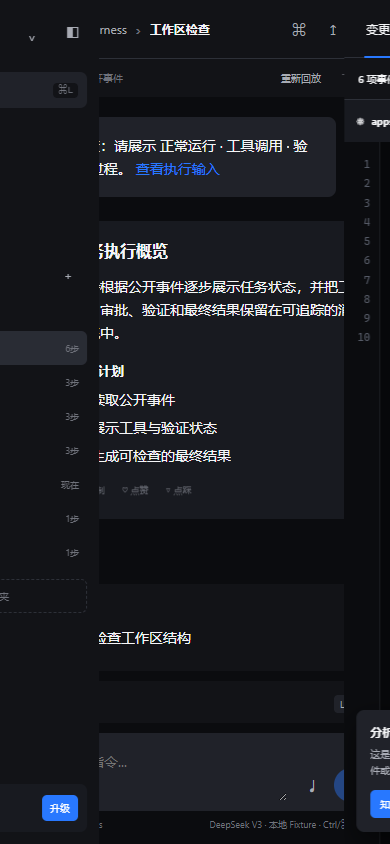
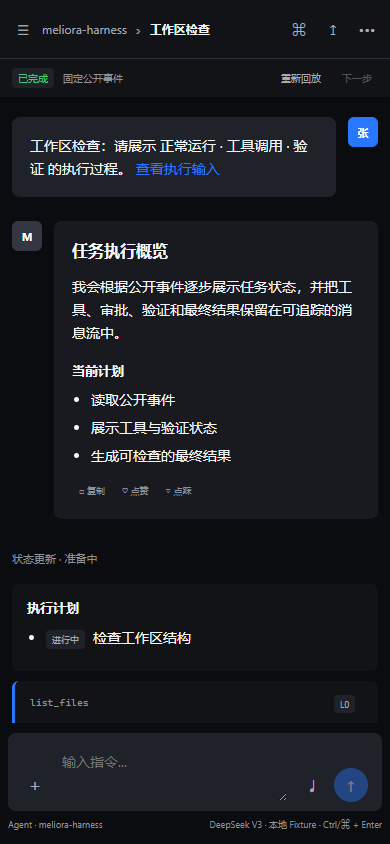
fix(web): close fixture shell review gaps

diff --git a/apps/web/src/dark-shell.css b/apps/web/src/dark-shell.css
@@ -1,6 +1,6 @@
 *{box-sizing:border-box}
-:root{font-family:Inter,"Segoe UI","Microsoft YaHei",sans-serif;font-size:14px;color-scheme:dark;--page:#0b0c0f;--panel:#121317;--panel-2:#181a20;--field:#202229;--hover:#292c34;--text:#f5f6f8;--secondary:#a8abb4;--muted:#6f727b;--line:#2d3038;--blue:#2878ff;--green:#3dcc78;--red:#ff5c67}
-:root[data-theme="light"]{color-scheme:light;--page:#f3f4f6;--panel:#fff;--panel-2:#f1f2f5;--field:#e7e8ec;--hover:#dddfe5;--text:#17181b;--secondary:#5d6068;--muted:#90939b;--line:#d7d9df;--blue:#1767ed;--green:#16884d;--red:#d93645}
+:root{font-family:Inter,"Segoe UI","Microsoft YaHei",sans-serif;font-size:14px;color-scheme:dark;--page:#0b0c0f;--panel:#121317;--panel-2:#181a20;--field:#202229;--hover:#292c34;--text:#f5f6f8;--secondary:#a8abb4;--muted:#8e929d;--line:#2d3038;--blue:#2878ff;--green:#3dcc78;--red:#ff5c67}
+:root[data-theme="light"]{color-scheme:light;--page:#f3f4f6;--panel:#fff;--panel-2:#f1f2f5;--field:#e7e8ec;--hover:#dddfe5;--text:#17181b;--secondary:#5d6068;--muted:#676b75;--line:#d7d9df;--blue:#1767ed;--green:#16884d;--red:#d93645}
 html,body,#root{height:100%;margin:0;overflow:hidden;background:var(--page);color:var(--text)}
 button,input,textarea,select{font:inherit;color:inherit}button{border:0;background:transparent;cursor:pointer}button:disabled{opacity:.42;cursor:not-allowed}button:not(:disabled):hover{background:var(--hover)}button:focus-visible,input:focus-visible,textarea:focus-visible,select:focus-visible,[tabindex]:focus-visible{outline:2px solid var(--blue);outline-offset:2px}a{color:var(--blue);text-decoration:none}code,pre,kbd{font-family:"Cascadia Code",Consolas,monospace}.sr-only{position:absolute;width:1px;height:1px;padding:0;margin:-1px;overflow:hidden;clip:rect(0,0,0,0);white-space:nowrap;border:0}
 
@@ -21,17 +21,18 @@ button,input,textarea,select{font:inherit;color:inherit}button{border:0;backgrou
 .mobile-panel-button,.mobile-close,.mobile-backdrop{display:none}
 .run-bar{height:39px;display:flex;align-items:center;gap:9px;padding:0 20px;color:var(--muted);font-size:10px;background:var(--panel);border-top:1px solid var(--line);flex-shrink:0}.run-bar button{margin-left:auto;color:var(--secondary);font-size:10px;padding:6px;border-radius:5px}.run-bar button+button{margin-left:0}.run-status{padding:3px 6px;border-radius:4px;background:var(--field);color:var(--secondary)}.run-status.completed{color:var(--green)}
 .message-stream{flex:1;min-height:0;overflow-y:auto;padding:30px 28px 36px;scrollbar-width:thin;scrollbar-color:var(--line) transparent}.message-column{width:min(760px,100%);margin:0 auto}.message{display:flex;gap:12px;margin-bottom:24px}.message-author{display:grid;place-items:center;width:30px;height:30px;flex-shrink:0;border-radius:6px;background:#343741;color:white;font-size:11px;font-weight:700}.message.user{flex-direction:row-reverse}.message.user .message-author{background:var(--blue)}.message-body{position:relative;max-width:86%;padding:17px 18px;border-radius:8px;background:var(--panel-2);line-height:1.65}.message.user .message-body{background:var(--field)}.message-body h2{margin:0 0 10px;font-size:16px}.message-body h3{margin:16px 0 7px;font-size:13px}.message-body p{margin:0}.message-body ul{margin:0;padding-left:19px}.message-body li{margin:5px 0}.message-actions{position:absolute;left:6px;bottom:-30px;display:flex;gap:3px;opacity:0;transform:translateY(-3px);transition:opacity 140ms ease,transform 140ms ease}.message:hover .message-actions,.message:focus-within .message-actions{opacity:1;transform:none}.message-actions button{padding:5px 7px;border-radius:5px;color:var(--muted);font-size:9px}.message-actions button[aria-pressed="true"]{color:var(--blue);background:var(--field)}
+.timeline-empty{display:grid;justify-items:center;align-content:center;min-height:52vh;padding:40px;text-align:center;color:var(--secondary)}.timeline-empty>span{display:grid;place-items:center;width:42px;height:42px;margin-bottom:14px;border-radius:8px;background:var(--field);color:var(--blue);font-size:20px}.timeline-empty h2{margin:0;color:var(--text);font-size:18px}.timeline-empty p{margin:8px 0 18px;font-size:12px}.timeline-empty button{padding:8px 12px;border-radius:6px;background:var(--field);color:var(--text);font-size:11px}.timeline-loading{position:relative;display:grid;grid-template-columns:30px minmax(0,1fr);gap:12px;align-items:start;margin:6px 42px 18px;color:var(--muted);font-size:10px}.timeline-loading .loading-avatar{width:30px;height:30px;border-radius:6px;background:var(--field);animation:loading-pulse 1.2s ease-in-out infinite}.timeline-loading>div{display:grid;gap:8px;padding-top:3px}.timeline-loading>div span{height:8px;border-radius:4px;background:var(--field);animation:loading-pulse 1.2s ease-in-out infinite}.timeline-loading>div span:nth-child(2){width:78%;animation-delay:100ms}.timeline-loading>div span:nth-child(3){width:52%;animation-delay:200ms}.timeline-loading p{grid-column:2;margin:0}@keyframes loading-pulse{50%{opacity:.45}}
 .reconnect-banner{display:flex;gap:9px;align-items:center;margin:0 42px 16px;padding:10px 12px;border-radius:6px;background:var(--panel);color:var(--secondary);font-size:11px}.reconnect-banner strong{color:var(--text)}.event-flow{margin:8px 42px}.event-flow>article{margin-bottom:10px}.event-line{margin:0;padding:8px 0;color:var(--muted);font-size:11px}.event-line.success{color:var(--green)}.event-card{padding:14px 15px;border-radius:7px;background:var(--panel);line-height:1.6}.event-card>div:first-child{display:flex;justify-content:space-between;gap:8px}.event-card h3{margin:0 0 8px;font-size:13px}.event-card p{margin:6px 0}.event-card ul{margin:7px 0;padding-left:19px}.event-card li{margin:5px 0}.event-card code,.event-card small{color:var(--muted);font-size:10px}.event-card.completed{border-left:3px solid var(--green)}.event-card.failed{border-left:3px solid var(--red)}.event-card.approval{border-left:3px solid #e0a739}.tool-card{border-left:3px solid var(--blue)}.pill{display:inline-block;margin-right:8px;padding:2px 6px;border-radius:4px;background:var(--field);color:var(--secondary);font-size:9px}.inline-actions{display:flex!important;justify-content:flex-start!important;gap:7px!important;margin-top:12px}.inline-actions button{padding:7px 10px;border-radius:5px;background:var(--field);font-size:11px}.primary{background:var(--blue)!important;color:white!important}.expired-approval{color:#e5b455;font-size:11px}
 .composer-area{flex-shrink:0;padding:10px 22px 13px;background:var(--page)}.notice{width:min(760px,100%);margin:0 auto 7px;color:var(--secondary);font-size:10px}.composer-area form{display:grid;grid-template-columns:34px minmax(0,1fr) 34px auto 36px;align-items:end;gap:7px;width:min(760px,100%);margin:0 auto;padding:9px 10px;border-radius:8px;background:var(--field);box-shadow:inset 0 0 0 1px transparent}.composer-area form:focus-within{box-shadow:inset 0 0 0 1px var(--blue);background:var(--hover)}.composer-area textarea{min-height:38px;max-height:120px;resize:vertical;padding:9px 5px;background:transparent;border:0;outline:0;line-height:1.5}.attachment-button,.voice-button,.send-button{width:34px;height:34px;border-radius:6px;font-size:17px;color:var(--secondary)}.voice-button.active{color:var(--blue);background:var(--panel)}.model-picker select{height:34px;max-width:125px;padding:0 7px;border:0;border-radius:6px;background:var(--panel);font-size:10px}.send-button{border-radius:50%;background:var(--blue);color:white}.send-button:not(:disabled):hover{background:#0e62e9}.composer-meta{display:flex;justify-content:space-between;gap:10px;width:min(760px,100%);margin:7px auto 0;color:var(--muted);font-size:9px}
 
 .right-panel{position:relative;display:flex;flex-direction:column;background:var(--panel);overflow:hidden}
 .right-tabs{height:58px;display:flex;align-items:center;gap:3px;padding:0 12px;border-bottom:1px solid var(--line);flex-shrink:0}.right-tabs button{position:relative;height:58px;padding:0 10px;color:var(--secondary);font-size:12px}.right-tabs button[aria-selected="true"]{color:var(--text)}.right-tabs button[aria-selected="true"]:after{content:"";position:absolute;left:8px;right:8px;bottom:0;height:2px;background:var(--blue)}.right-tools{margin-left:auto;color:var(--muted);font-size:12px}
 .change-summary{height:42px;display:flex;align-items:center;gap:9px;padding:0 14px;color:var(--secondary);font-size:10px;border-bottom:1px solid var(--line)}.change-summary strong{color:var(--text);font-weight:500}.added{color:var(--green)}.deleted{color:var(--red)}.file-path{height:42px;display:flex;align-items:center;gap:7px;padding:0 12px;background:var(--panel-2);font-size:10px}.file-path strong{min-width:0;overflow:hidden;text-overflow:ellipsis;white-space:nowrap}.file-badge{margin-left:auto;padding:3px 5px;border-radius:4px;background:var(--field);color:var(--secondary)}
-.code-editor{flex:1;min-height:0;display:grid;grid-template-columns:36px minmax(0,1fr);overflow:auto;background:#07080a;color:#e7e8ec;font:11px/1.75 "Cascadia Code",Consolas,monospace}.code-editor ol{position:sticky;left:0;margin:0;padding:13px 9px 13px 0;list-style:none;text-align:right;color:#555a66;background:#0b0c0f;border-right:1px solid #1b1d22}.code-editor pre{margin:0;padding:13px 12px;min-width:max-content;white-space:pre}.syntax-keyword{color:#c893ff}.syntax-type{color:#61d6a0}.syntax-string{color:#e6c66f}.syntax-plain{color:#eef0f4}.preview-empty{display:grid;place-items:center;align-content:center;gap:9px;flex:1;color:var(--muted);text-align:center}.preview-empty span{font-size:28px}.preview-empty h3,.preview-empty p{margin:0;color:var(--secondary)}.preview-empty small{font-size:10px}
+.code-editor{flex:1;min-height:0;display:grid;grid-template-columns:36px minmax(0,1fr);overflow:auto;background:#07080a;color:#e7e8ec;font:11px/1.75 "Cascadia Code",Consolas,monospace}.code-editor ol{position:sticky;left:0;margin:0;padding:13px 9px 13px 0;list-style:none;text-align:right;color:#858b99;background:#0b0c0f;border-right:1px solid #1b1d22}.code-editor pre{margin:0;padding:13px 12px;min-width:max-content;white-space:pre}.syntax-keyword{color:#c893ff}.syntax-type{color:#61d6a0}.syntax-string{color:#e6c66f}.syntax-plain{color:#eef0f4}.preview-empty,.changes-empty{display:grid;place-items:center;align-content:center;gap:9px;flex:1;padding:24px;color:var(--muted);text-align:center}.preview-empty span,.changes-empty span{font-size:28px}.preview-empty h3,.preview-empty p,.changes-empty h3,.changes-empty p{margin:0;color:var(--secondary)}.preview-empty small,.changes-empty small{font-size:10px;line-height:1.5}
 .privacy-notice{position:absolute;right:12px;bottom:12px;width:calc(100% - 24px);z-index:10;padding:14px;border-radius:8px;background:var(--field);box-shadow:0 12px 28px #0008}.privacy-notice h3{margin:0 24px 7px 0;font-size:12px}.privacy-notice p{margin:0 0 12px;color:var(--secondary);font-size:10px;line-height:1.55}.privacy-notice>div{display:flex;gap:7px}.privacy-notice button{padding:7px 10px;border-radius:5px;background:var(--panel);font-size:10px}.privacy-notice .notice-close{position:absolute;right:6px;top:5px;width:24px;height:24px;padding:0;color:var(--muted)}
 
 dialog{border:0;color:var(--text);background:var(--panel-2)}dialog::backdrop{background:#0009}.project-menu{position:fixed;margin:0;width:240px;padding:6px;border-radius:7px;box-shadow:0 12px 28px #0009}.project-menu::backdrop{background:transparent}.project-menu button{display:block;width:100%;padding:10px;border-radius:5px;text-align:left;font-size:11px}.settings-dialog{position:relative;width:min(430px,92vw);padding:22px;border-radius:8px}.settings-dialog h2{margin:0 0 8px;font-size:18px}.settings-dialog p,.settings-dialog small{color:var(--secondary);line-height:1.6}.dialog-close{position:absolute;right:10px;top:10px;width:28px;height:28px;border-radius:5px}.settings-dialog form{display:grid;gap:8px;margin-top:16px}.settings-dialog label{margin-top:6px;font-size:11px}.settings-dialog input{height:38px;padding:0 10px;border:1px solid var(--line);border-radius:6px;background:var(--field)}.settings-dialog>button.primary,.settings-dialog form>button{padding:9px 11px;border-radius:6px}.avatar-options{display:flex;gap:6px}.avatar-options button{width:38px;height:38px;border-radius:6px;background:var(--field)}.avatar-options button[aria-pressed="true"]{box-shadow:inset 0 0 0 2px var(--blue)}
 
 @media(max-width:1099px){.app-shell{grid-template-columns:230px minmax(420px,1fr) 0}.app-shell.sidebar-collapsed{grid-template-columns:56px minmax(420px,1fr) 0}.right-panel{display:flex;position:fixed;z-index:30;top:0;right:0;bottom:0;width:min(360px,90vw);transform:translateX(105%);transition:transform 180ms ease}.app-shell.mobile-code-open .right-panel{transform:translateX(0)}.mobile-code-open .mobile-backdrop{display:block;position:fixed;inset:0;z-index:25;background:#0009}.mobile-code-trigger,.right-panel .mobile-close{display:block}.right-panel .mobile-close{position:absolute;z-index:4;right:7px;top:7px;width:30px;height:30px;border-radius:6px;background:var(--field)}}
 @media(max-width:768px){.app-shell,.app-shell.sidebar-collapsed{display:block}.left-panel,.right-panel{display:flex;position:fixed;z-index:30;top:0;bottom:0;width:min(300px,86vw);transition:transform 180ms ease}.left-panel{left:0;transform:translateX(-105%);align-items:stretch}.right-panel{right:0;transform:translateX(105%)}.app-shell.mobile-nav-open .left-panel,.app-shell.mobile-code-open .right-panel{transform:translateX(0)}.mobile-nav-open .mobile-backdrop{display:block;position:fixed;inset:0;z-index:25;background:#0009}.mobile-nav-trigger{display:block}.sidebar-collapsed .sidebar-user{padding:10px 12px;justify-content:flex-start}.sidebar-collapsed .user-copy,.sidebar-collapsed .sidebar-user>.icon-button:not(.collapse-button),.sidebar-collapsed .sidebar-scroll,.sidebar-collapsed .sidebar-footer{display:flex}.sidebar-collapsed .sidebar-scroll{display:block}.sidebar-collapsed .user-copy{display:block}.sidebar-collapsed .sidebar-footer{display:block}.sidebar-collapsed .footer-tools,.sidebar-collapsed .team-card{display:flex}.sidebar-collapsed .collapse-button{position:static}.sidebar-collapsed .collapsed-rail{display:none}.center-panel{height:100vh;border:0}.message-stream{padding:20px 12px}.event-flow{margin-inline:0}.message-body{max-width:90%}.composer-area{padding-inline:8px}.composer-area form{grid-template-columns:32px minmax(0,1fr) 32px 38px}.model-picker{display:none}.conversation-header{padding-inline:8px;gap:4px}.conversation-header>div{flex:1}.run-bar{padding-inline:12px}.message-actions{position:static;opacity:1;transform:none;margin-top:10px}}
-@media(prefers-reduced-motion:reduce){.app-shell,.chat-tree,.chevron,.message-actions{transition:none}}
+@media(prefers-reduced-motion:reduce){.app-shell,.chat-tree,.chevron,.message-actions{transition:none}.timeline-loading span{animation:none}}

diff --git a/apps/web/src/main.tsx b/apps/web/src/main.tsx
@@ -44,6 +44,7 @@ function App() {
   const [profileAvatar, setProfileAvatar] = useState(userAvatar);
   const [folderError, setFolderError] = useState("");
   const settingsDialog = useRef<HTMLDialogElement>(null);
+  const composerInput = useRef<HTMLTextAreaElement>(null);
 
   const projectList = library.projects;
   const activeProject = projectList.find((project) => project.chats.some((chat) => chat.id === library.activeId))!;
@@ -54,9 +55,11 @@ function App() {
   const scenario = scenarios.find((item) => item.id === scenarioId)!;
 
   const messages = [
-    { id: "user-message", role: "user" as const, content: message || `${scenario.title}：请展示 ${scenario.description} 的执行过程。` },
-    { id: "assistant-message", role: "assistant" as const, content: "我会根据公开事件逐步展示任务状态，并把工具、审批、验证和最终结果保留在可追踪的消息流中。" },
+    ...(message.trim() || events.length ? [{ id: "user-message", role: "user" as const, content: message || `${scenario.title}：请展示 ${scenario.description} 的执行过程。` }] : []),
+    ...(events.length ? [{ id: "assistant-message", role: "assistant" as const, content: "我会根据公开事件逐步展示任务状态，并把工具、审批、验证和最终结果保留在可追踪的消息流中。" }] : []),
   ];
+  const showEmpty = !message.trim() && events.length === 0 && !playing && scenarioId !== "reconnecting";
+  const showLoading = events.length === 0 && (playing || Boolean(message.trim()));
 
   useEffect(() => {
     document.documentElement.dataset.theme = theme;
@@ -216,11 +219,13 @@ function App() {
 
       <section className="message-stream" aria-label="消息流">
         <div className="message-column">
+          {showEmpty && <section className="timeline-empty" aria-labelledby="empty-title"><span aria-hidden="true">✦</span><h2 id="empty-title">开始一个新任务</h2><p>输入目标后，公开运行事件会在这里逐步呈现。</p><button onClick={() => composerInput.current?.focus()}>在输入框中开始</button></section>}
           {messages.map((item) => <article className={`message ${item.role}`} key={item.id}>
             <span className="message-author">{item.role === "assistant" ? "M" : userAvatar}</span>
             <div className="message-body">{item.role === "assistant" ? <><h2>任务执行概览</h2><p>{item.content}</p><h3>当前计划</h3><ul><li>读取公开事件</li><li>展示工具与验证状态</li><li>生成可检查的最终结果</li></ul><div className="message-actions"><button onClick={() => setNotice("已复制消息摘要（演示）。")}>□ 复制</button><button aria-pressed={reaction === "like"} onClick={() => setReaction("like")}>♡ 点赞</button><button aria-pressed={reaction === "dislike"} onClick={() => setReaction("dislike")}>▽ 点踩</button></div></> : <p>{item.content} <a href="#composer">查看执行输入</a></p>}</div>
           </article>)}
           {scenarioId === "reconnecting" && <aside className="reconnect-banner"><strong>连接恢复</strong><span>从事件序号 {resumePoint(scenarioId)} 之后继续，不创建新任务。</span></aside>}
+          {showLoading && <section className="timeline-loading" aria-live="polite" aria-busy="true"><span className="loading-avatar"/><div><span/><span/><span/></div><p>{playing ? "正在读取公开事件…" : "等待公开事件…"}</p></section>}
           <div className="event-flow">{events.map((event) => <article key={event.eventId} data-event={event.kind}>{renderEvent(event)}</article>)}</div>
         </div>
       </section>
@@ -228,7 +233,7 @@ function App() {
       <footer className="composer-area">{notice && <p className="notice" role="status">{notice}</p>}<form onSubmit={(event) => { event.preventDefault(); send(); }}>
         <button type="button" className="attachment-button" aria-label="添加附件" onClick={() => setNotice("附件功能等待文件服务接入。")}>＋</button>
         <label className="sr-only" htmlFor="composer">输入指令</label>
-        <textarea id="composer" maxLength={20_000} value={draft} onChange={(event) => setDraft(event.target.value)} placeholder="输入指令..." onKeyDown={(event) => { if (event.key === "Enter" && (event.ctrlKey || event.metaKey) && !event.nativeEvent.isComposing) { event.preventDefault(); send(); } }}/>
+        <textarea ref={composerInput} id="composer" maxLength={20_000} value={draft} onChange={(event) => setDraft(event.target.value)} placeholder="输入指令..." onKeyDown={(event) => { if (event.key === "Enter" && (event.ctrlKey || event.metaKey) && !event.nativeEvent.isComposing) { event.preventDefault(); send(); } }}/>
         <button type="button" className={`voice-button ${voiceActive ? "active" : ""}`} aria-label="语音输入" aria-pressed={voiceActive} onClick={() => setVoiceActive((value) => !value)}>♩</button>
         <label className="model-picker"><span className="sr-only">模型</span><select value={modelName} onChange={(event) => setModelName(event.target.value)}><option>DeepSeek V3</option><option>Kimi K2</option><option>MiniMax M2</option></select></label>
         <button className="send-button" aria-label="发送" disabled={!draft.trim() || playing}>↑</button>
@@ -236,7 +241,7 @@ function App() {
     </main>
 
     <button className="mobile-backdrop" aria-label="关闭侧面板" onClick={() => setMobilePanel(null)}/>
-    <aside className="right-panel"><button className="mobile-close" aria-label="关闭代码面板" onClick={() => setMobilePanel(null)}>×</button><RightPanel projectName={activeProject.name} chatTitle={activeChat.title} eventCount={eventCount} noticeVisible={noticeVisible} onCloseNotice={() => setNoticeVisible(false)}/></aside>
+    <aside className="right-panel"><button className="mobile-close" aria-label="关闭代码面板" onClick={() => setMobilePanel(null)}>×</button><RightPanel projectName={activeProject.name} chatTitle={activeChat.title} noticeVisible={noticeVisible} onCloseNotice={() => setNoticeVisible(false)}/></aside>
 
     <dialog ref={settingsDialog} className="settings-dialog" onCancel={() => setDialogMode(null)}>
       <button className="dialog-close" onClick={() => setDialogMode(null)}>×</button>

diff --git a/apps/web/src/RightPanel.tsx b/apps/web/src/RightPanel.tsx
@@ -1,21 +1,8 @@
 import React, { useRef, useState } from "react";
 
-const codeContent = [
-  ["keyword", "import"], ["plain", " { "], ["type", "PublicRunEvent"], ["plain", " } "], ["keyword", "from"], ["string", " \"@meliora/runtime\";"],
-  ["keyword", "export const"], ["plain", " WebShell = () => {"],
-  ["plain", "  "], ["keyword", "const"], ["plain", " status = "], ["string", "\"ready\""], ["plain", ";"],
-  ["plain", "  "], ["keyword", "return"], ["plain", " ("],
-  ["plain", "    <"], ["type", "Workspace"], ["plain", " theme={"], ["string", "\"dark\""], ["plain", "}>"],
-  ["plain", "      <"], ["type", "Conversation"], ["plain", " events={publicEvents} />"],
-  ["plain", "    </"], ["type", "Workspace"], ["plain", ">"],
-  ["plain", "  );"],
-  ["plain", "};"],
-] as const;
-
 interface RightPanelProps {
   projectName: string;
   chatTitle: string;
-  eventCount: number;
   onCloseNotice: () => void;
   noticeVisible: boolean;
 }
@@ -39,14 +26,7 @@ export function RightPanel(props: RightPanelProps) {
       <button ref={previewTab} role="tab" aria-selected={activeTab === "preview"} tabIndex={activeTab === "preview" ? 0 : -1} onKeyDown={selectAdjacentTab} onClick={() => setActiveTab("preview")}>预览</button>
       <span className="right-tools">⌁　↗　◫</span>
     </div>
-    {activeTab === "changes" ? <>
-      <div className="change-summary"><strong>{props.eventCount} 项事件变更</strong><span className="added">+156</span><span className="deleted">-23</span></div>
-      <div className="file-path"><span>⚛</span><strong>apps/web/src/App.tsx</strong><span className="file-badge">新文件</span></div>
-      <div className="code-editor" aria-label="只读代码预览">
-        <ol>{Array.from({length: 10}, (_, index) => <li key={index + 1}>{index + 1}</li>)}</ol>
-        <pre><code>{codeContent.map(([kind, value], index) => <span className={`syntax-${kind}`} key={index}>{value}{value.includes(";") || value.endsWith("{") || value === "  );" || value === "};" ? "\n" : ""}</span>)}</code></pre>
-      </div>
-    </> : <div className="preview-empty"><span>◫</span><h3>浏览器预览</h3><p>{props.projectName} / {props.chatTitle}</p><small>连接本地预览服务后在这里显示页面。</small></div>}
+    {activeTab === "changes" ? <div className="changes-empty" role="status"><span aria-hidden="true">◇</span><h3>暂无文件变更</h3><p>当前 fixture 只回放公开运行事件，尚未提供 Diff。</p><small>产生真实变更后，这里将显示文件与行级差异。</small></div> : <div className="preview-empty"><span>◫</span><h3>浏览器预览</h3><p>{props.projectName} / {props.chatTitle}</p><small>连接本地预览服务后在这里显示页面。</small></div>}
     {props.noticeVisible && <aside className="privacy-notice" role="status">
       <button className="notice-close" aria-label="关闭通知" onClick={props.onCloseNotice}>×</button>
       <h3>分析与 Cookie</h3>

diff --git a/apps/web/src/replay.ts b/apps/web/src/replay.ts
@@ -1,9 +1,10 @@
 import { publicRunEventReplays } from "../../../fixtures/contracts/v1/public-run-event-replays";
 import { PUBLIC_RUN_EVENT_SCHEMA_VERSION, type PublicRunEvent } from "../../../packages/agent-runtime/public-events";
-export type Scenario = keyof typeof publicRunEventReplays | "blocked" | "compacting";
+export type Scenario = keyof typeof publicRunEventReplays | "approval-live-demo" | "blocked" | "compacting";
 export const scenarios: {id: Scenario; title: string; description: string}[] = [
   {id:"read-only-success",title:"工作区检查",description:"正常运行 · 工具调用 · 验证"},
   {id:"approval-required",title:"修改文件审批",description:"等待审批 · 参数绑定"},
+  {id:"approval-live-demo",title:"待处理审批演示",description:"未过期审批 · 前端交互演示"},
   {id:"tool-failure",title:"Git 检查失败",description:"工具失败 · 可重试"},
   {id:"cancelled",title:"已取消的任务",description:"取消 · 保留执行记录"},
   {id:"reconnecting",title:"恢复断开的会话",description:"SSE 重连 · 事件去重"},
@@ -13,6 +14,11 @@ export const scenarios: {id: Scenario; title: string; description: string}[] = [
 const envelope = (id: string) => ({schemaVersion:PUBLIC_RUN_EVENT_SCHEMA_VERSION,eventId:"web-demo-"+id,sessionId:"web-demo-"+id,runId:"web-demo-"+id,sequence:1,timestamp:"2026-09-12T00:00:00.000Z",visibility:"public" as const});
 export function streamFor(id:Scenario): readonly PublicRunEvent[] {
   // Supplemental UI-only examples use existing contracts, never modify shared fixtures.
+  if(id==="approval-live-demo") return publicRunEventReplays["approval-required"].events.map((event) => event.kind === "approval_requested" ? {
+    ...event,
+    eventId:`${event.eventId}-live-demo`,
+    payload:{...event.payload,expiresAt:"2099-12-31T23:59:59.000Z"},
+  } : event);
   if(id==="blocked") return [{...envelope(id),kind:"run_blocked",payload:{code:"workspace_selection_required",message:"尚未选择可用的工作区，任务暂时无法继续。",userActions:["确认工作区目录。","接入真实服务后，重新提交任务。"]}}];
   if(id==="compacting") return [{...envelope(id),kind:"context_compacted",payload:{checkpointId:"web-demo-checkpoint",summary:"已保存目标、约束与执行进度，可从检查点继续。"}}];
   return publicRunEventReplays[id].events;

diff --git a/apps/web/tests/replay.test.ts b/apps/web/tests/replay.test.ts
@@ -1,7 +1,8 @@
 import {test} from "node:test";
 import assert from "node:assert/strict";
 import {publicEvents,streamFor,statusOf,resumePoint,scenarios} from "../src/replay";
-test("all seven scenarios consume typed public fixtures",()=>{for(const s of scenarios){const events=publicEvents(streamFor(s.id));assert.ok(events.length);assert.ok(events.every(e=>e.visibility==="public"));}});
+test("all scenarios consume typed public fixtures",()=>{for(const s of scenarios){const events=publicEvents(streamFor(s.id));assert.ok(events.length);assert.ok(events.every(e=>e.visibility==="public"));}});
+test("the frontend approval demo stays actionable without changing the shared fixture",()=>{const shared=streamFor("approval-required").find(e=>e.kind==="approval_requested");const live=streamFor("approval-live-demo").find(e=>e.kind==="approval_requested");assert.ok(shared&&live);assert.notEqual(shared.payload.expiresAt,live.payload.expiresAt);assert.equal(live.payload.expiresAt,"2099-12-31T23:59:59.000Z");});
 test("reconnect duplicates are removed without inventing the absent prefix",()=>{const events=streamFor("reconnecting");assert.equal(resumePoint("reconnecting"),4);assert.deepEqual(publicEvents([...events,...events]),events);assert.equal(publicEvents(events)[0].sequence,5);});
 test("private envelopes are rejected",()=>{const event=streamFor("cancelled")[0];assert.equal(publicEvents([{...event,visibility:"private"} as never]).length,0);});
 test("tool success never implies run completion",()=>{const events=streamFor("read-only-success");assert.notEqual(statusOf(events.slice(0,4)),"completed");assert.equal(statusOf(events),"completed");});

diff --git a/apps/web/tests/projects.test.ts b/apps/web/tests/projects.test.ts
@@ -1,12 +1,13 @@
 import assert from "node:assert/strict";
 import { test } from "node:test";
 import { addProject, defaultLibrary, parseLibrary } from "../src/projects";
+import { scenarios } from "../src/replay";
 
 test("the default project contains all replayable conversations", () => {
   const library = defaultLibrary();
   assert.equal(library.projects.length, 1);
   assert.equal(library.projects[0].name, "meliora-harness");
-  assert.equal(library.projects[0].chats.length, 7);
+  assert.equal(library.projects[0].chats.length, scenarios.length);
 });
 
 test("a new project receives its own empty conversation", () => {
@@ -19,12 +20,12 @@ test("a new project receives its own empty conversation", () => {
 
 test("invalid browser storage fails closed to the default library", () => {
   assert.equal(parseLibrary("not-json").projects[0].name, "meliora-harness");
-  assert.equal(parseLibrary(JSON.stringify({ projects: [], activeId: "missing" })).projects[0].chats.length, 7);
+  assert.equal(parseLibrary(JSON.stringify({ projects: [], activeId: "missing" })).projects[0].chats.length, scenarios.length);
 });
 
 test("oversized browser storage is rejected before rehydration", () => {
   assert.equal(parseLibrary("x".repeat(250_001)).projects[0].name, "meliora-harness");
   const library = defaultLibrary();
   library.projects[0].chats[0].draft = "x".repeat(20_001);
-  assert.equal(parseLibrary(JSON.stringify(library)).projects[0].chats.length, 7);
+  assert.equal(parseLibrary(JSON.stringify(library)).projects[0].chats.length, scenarios.length);
 });

diff --git a/apps/web/src/Sidebar.tsx b/apps/web/src/Sidebar.tsx
@@ -72,7 +72,7 @@ export function Sidebar(props: SidebarProps) {
     <div className="sidebar-scroll">
       <label className="search-field"><span aria-hidden="true">⌕</span><input ref={searchInput} aria-label="搜索项目和对话" placeholder="搜索" value={search} onChange={(event) => setSearch(event.target.value)}/><kbd>⌘L</kbd></label>
       <nav className="quick-actions" aria-label="快捷操作">
-        <button onClick={props.onNewAgent}><span>＋</span>新建</button>
+        <button aria-label="新建对话" onClick={props.onNewAgent}><span>＋</span>新建</button>
         <button onClick={props.onAutomations}><span>◷</span>自动化</button>
         <button onClick={props.onCustomize}><span>✦</span>自定义</button>
       </nav>

diff --git a/apps/web/verification/RESULTS.md b/apps/web/verification/RESULTS.md
@@ -2,15 +2,16 @@
 日期：2026-09-12。Base：9a212541。验证环境为本地，未部署。
 
 ## 已执行
-- npm test：10 项项目状态与回放测试通过。
+- npm test：11 项项目状态与回放测试通过；Windows 使用显式测试文件路径，不依赖 shell glob 展开。
 - npm run build：TypeScript + Vite 7.3.6 构建通过。
 - npm audit：0 漏洞。
-- Chrome headless：七个场景，1440/1100/1099/1024/768/390 宽度无横向溢出。
-- 审批允许反馈明确仅演示；状态不伪装为完成。
+- Chrome headless：八个场景，1440/1100/1099/1024/768/390 宽度无横向溢出。
+- 新建对话 empty、零事件 loading、无 Diff 空态、过期审批只读态和未过期审批交互态通过。
 - 重连从序号4恢复，重复恢复仍仅3个后续事件；刷新保持位置。
 - 多行中文输入、HTML文本转义、Ctrl/⌘+Enter、Ctrl/⌘+L、Shift+F10、方向键标签切换、Escape关闭和手机导航通过。
 - 页面无未处理 JavaScript 异常。
-- 已生成并目视检查 web-1440.png、web-1100.png、web-768.png 与 web-390.png。
+- 等待布局 transition 后生成并目视检查 web-1440.png、web-1100.png、web-768.png 与 web-390.png。
+- 根 `npm run check` 已包含 Web 的 `npm ci`、test 和 build。
 
 ## 复跑浏览器
 先 npm run dev -- --port 5173 --strictPort。需要本机 Chrome 与 Playwright。
@@ -26,8 +27,8 @@
 
 ## 深色三栏调整（2026-09-12）
 已实际查看 https://www.boardui.com/templates/ai-chat 的可见页面，自主实现深色三栏面板、树状导航、消息卡片与蓝色操作按钮；未复制模板源码。
-新增会话搜索与桌面侧栏收起/展开。原有七场景和演示边界保持。
-验证：build、10项 tests 通过；浏览器检查搜索/清空、侧栏收起/展开、过期审批禁用、平板与手机抽屉；390/768/1024/1099/1100/1440 均无页面横向溢出。目视检查桌面和手机布局。
+新增会话搜索、桌面侧栏收起/展开、empty/loading/no-diff 以及未过期审批演示。共享 fixtures 和演示边界保持。
+验证：build、11 项 tests 通过；浏览器检查搜索/清空、侧栏收起/展开、两类审批、平板与手机抽屉；390/768/1024/1099/1100/1440 均无页面横向溢出。目视检查桌面和手机布局。
 本目录PNG为第一版截图，最新外观以本地运行页面为准。
 
 最新验证：
@@ -35,5 +36,5 @@
 - 折叠左栏后为 56px / 1104px / 280px，中栏平滑扩展。
 - 768px 与 390px 下为单栏布局，导航与代码面板可分别通过键盘打开和关闭。
 - 项目树、二级对话、搜索、New Agent、主题、模型、语音开关与右侧标签可操作。
-- 最新构建通过；10 项单元/回放测试通过；npm audit 为 0 漏洞；浏览器控制台无错误。
-- 右侧代码、行数和变更统计均为明确的界面示例，不代表工作区真实写入。
+- 最新构建通过；11 项单元/回放测试通过；npm audit 为 0 漏洞；浏览器控制台无错误。
+- 当前 fixtures 不含 Diff，右栏展示明确空态，不显示示例文件或虚构增删统计。

diff --git a/apps/web/README.md b/apps/web/README.md
@@ -14,14 +14,14 @@ npm.cmd run dev
 
 ## 本版
 - 五组共享 fixtures：正常、审批、失败、取消、重连。
-- 两组前端补充示例：blocked、context_compacted，沿用既有类型，待共享契约 Owner 审查。
+- 三组前端补充示例：未过期 approval、blocked、context_compacted，只复用既有公共事件类型，不修改共享契约。
 - 左侧用户、搜索、快捷操作、项目/二级对话树、主题与团队信息。
 - 中间面包屑、用户/AI 消息、计划、工具、验证、Outcome 与多控件输入区。
-- 右侧变更统计、路径、只读语法高亮代码、预览标签和通知卡。
+- 右侧 Changes/Preview 标签、无 Diff 空态和通知卡；没有真实 Diff 时不显示示例文件或虚构统计。
 - 逐事件/自动回放、侧栏折叠、项目与对话创建、主题切换、中文多行输入。
 - 刷新恢复本地演示项目、对话与进度；不发送 Run 或 Provider 请求。
-- 审批按钮明确为演示：缺少真实 Diff/参数且历史请求已过期，点击不会产生授权。
-- 示例变更和代码只用于视觉验收，明确不代表真实文件写入。
+- 新建对话和零事件状态分别展示真实 empty/loading 反馈，不沿用固定完成内容。
+- 同时保留过期审批只读态与未过期审批交互态；所有按钮都明确为前端演示，不会产生真实授权。
 - 选择文件夹只保存文件夹名称，不保留句柄、不读取内容、不上传文件。
 - BoardUI 仅依照可见信息架构参考；未复制商业模板源码。
 
